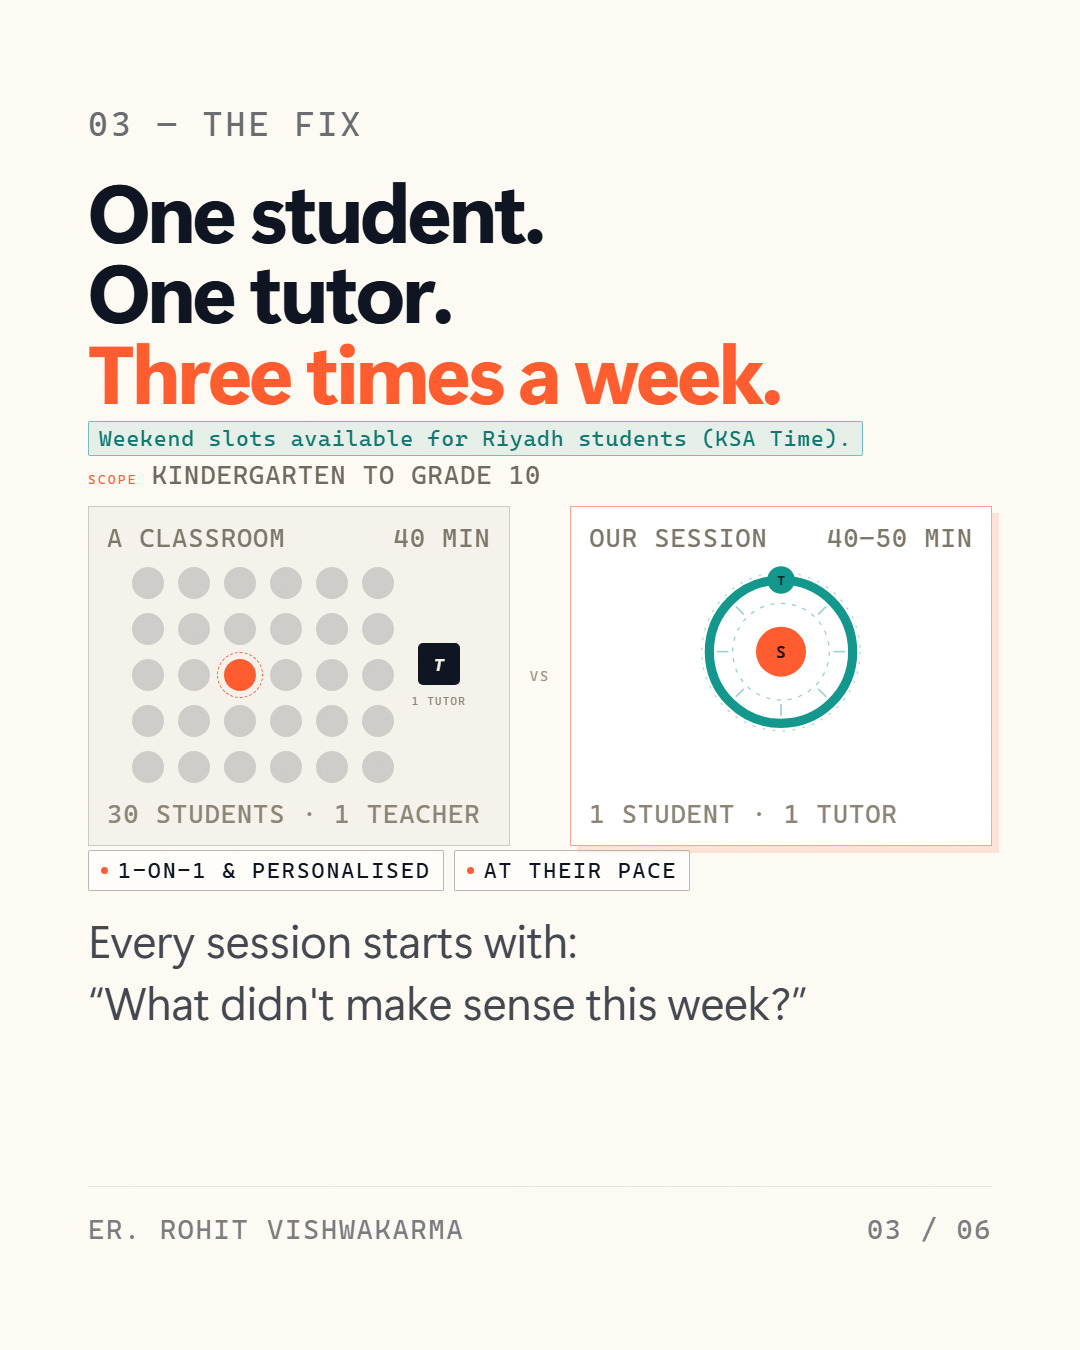
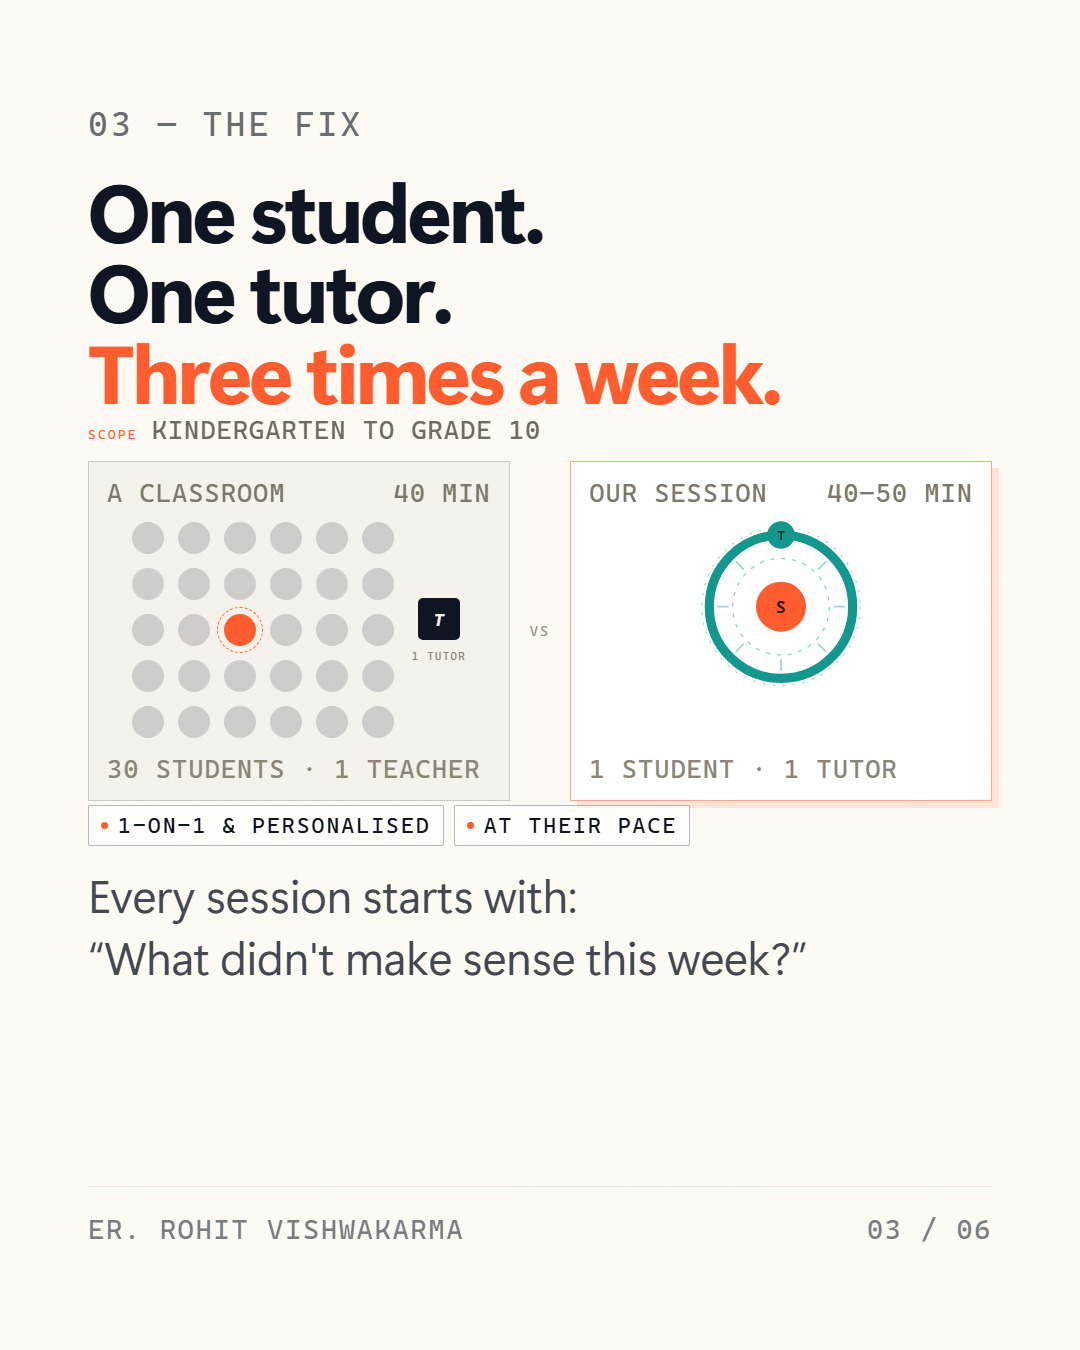
Remove redundant Riyadh tag from S3 fix slide

Changed region(s): [[0.0611, 0.56, 0.9472, 0.7778], [0.0611, 0.3111, 0.9472, 0.56], [0.3667, 0.4356, 0.4278, 0.5289]]

diff --git a/nextgen-creative-kit-riyadh-45.html b/nextgen-creative-kit-riyadh-45.html
@@ -652,7 +652,6 @@
         <div class="slide sq light s3">
           <div class="kicker">03 — THE FIX</div>
           <div class="h1 sm">One student.<br>One tutor.<br><em>Three times a week.</em></div>
-          <div class="riyadh-tag">Weekend slots available for Riyadh students (KSA Time).</div>
           <div class="s3-scope"><span>SCOPE</span>KINDERGARTEN TO GRADE 10</div>
           <div class="s3-diagram">
             <div class="s3-panel">

diff --git a/nextgen-creative-kit-riyadh.html b/nextgen-creative-kit-riyadh.html
@@ -652,7 +652,6 @@
         <div class="slide sq light s3">
           <div class="kicker">03 — THE FIX</div>
           <div class="h1 sm">One student.<br>One tutor.<br><em>Three times a week.</em></div>
-          <div class="riyadh-tag">Weekend slots available for Riyadh students (KSA Time).</div>
           <div class="s3-scope"><span>SCOPE</span>KINDERGARTEN TO GRADE 10</div>
           <div class="s3-diagram">
             <div class="s3-panel">

diff --git a/exports/make-riyadh-deck.py b/exports/make-riyadh-deck.py
@@ -48,13 +48,7 @@ rep("  /* ---------- MOBILE LEGIBILITY ---------- */",
   .s4-note a:hover{color:#FF8055;border-bottom-color:#FF8055}
   /* ---------- MOBILE LEGIBILITY ---------- */""", "css")
 
-# Slide 03 — weekend / KSA-time tag directly under the headline.
-rep("""          <div class="h1 sm">One student.<br>One tutor.<br><em>Three times a week.</em></div>
-          <div class="s3-scope"><span>SCOPE</span>KINDERGARTEN TO GRADE 10</div>""",
-    """          <div class="h1 sm">One student.<br>One tutor.<br><em>Three times a week.</em></div>
-          <div class="riyadh-tag">Weekend slots available for Riyadh students (KSA Time).</div>
-          <div class="s3-scope"><span>SCOPE</span>KINDERGARTEN TO GRADE 10</div>""",
-    "slide 03 tag")
+# Slide 03 — keep the fix slide clean; Riyadh specifics live on S6.
 
 # Slide 04 — photo and credentials untouched; LinkedIn link is already in the source.
 
